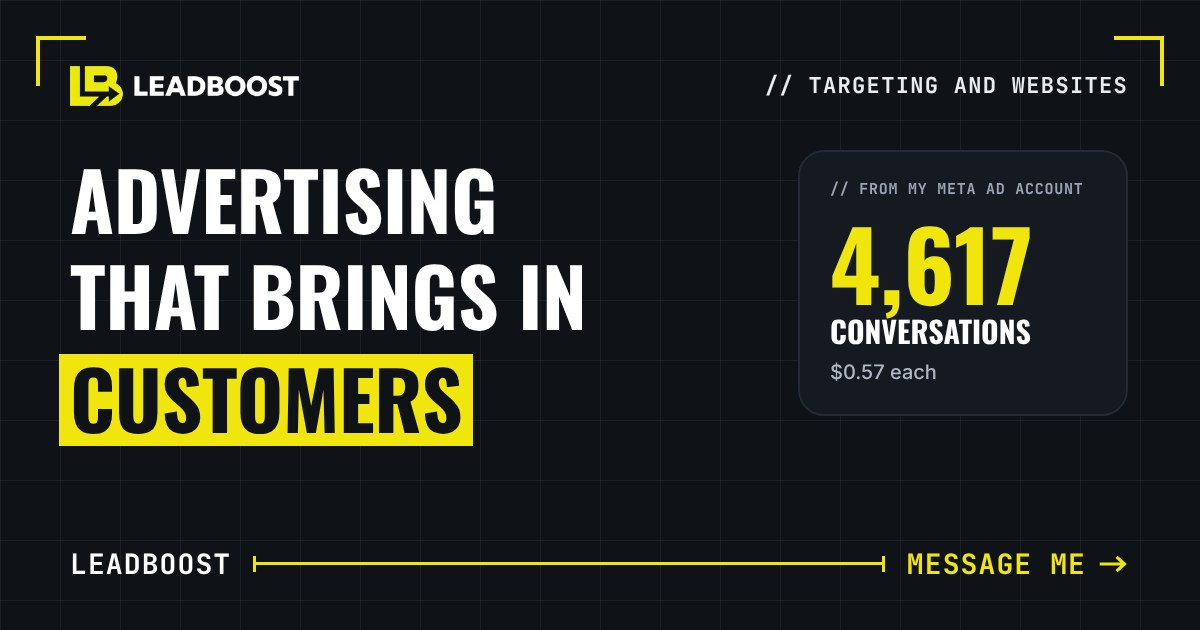
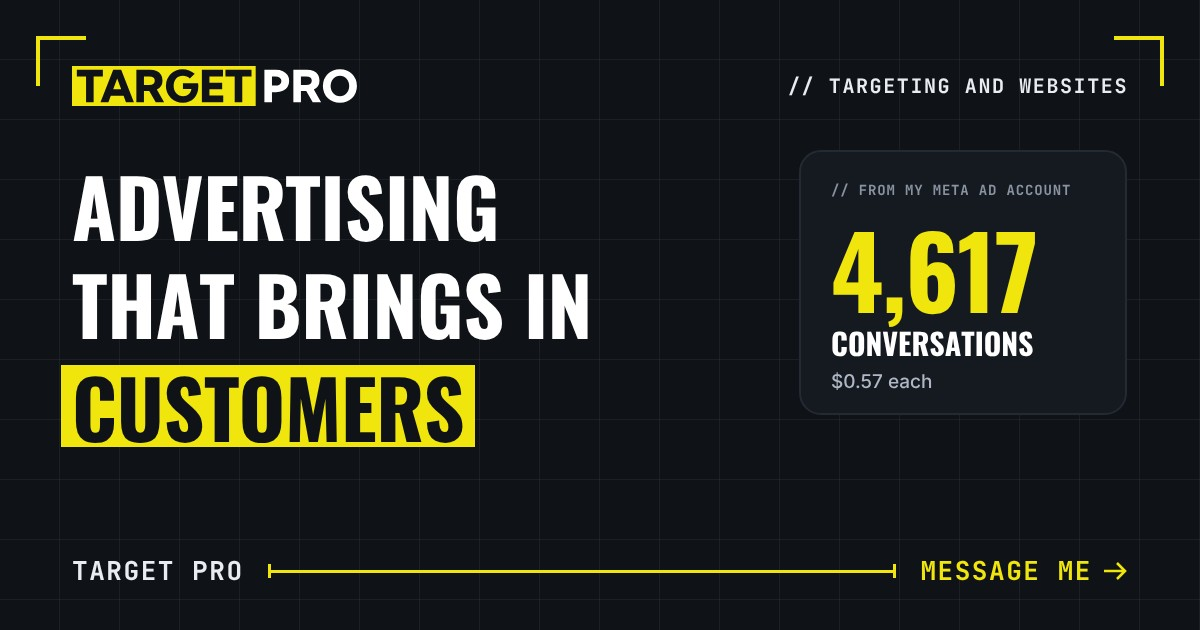
Ребрендинг: LeadBoost → TARGET PRO
Новый логотип (TARGET на жёлтой плашке, PRO белым) в шапке, favicon и
иконки приложения, картинки превью ссылок на трёх языках перерисованы.
Имя заменено в приветствии, подвале, копирайте, title/OG/JSON-LD,
manifest, 404 и в заявке в Telegram. Ники соцсетей пока прежние.

Claude-Session: https://claude.ai/code/session_01MH9BxGU3bTNh8A4amz6W13

diff --git a/src/i18n.jsx b/src/i18n.jsx
@@ -8,7 +8,7 @@
    HTML, поэтому поисковики индексируют все три. Переключатель
    меняет язык без перезагрузки и адрес в строке браузера.
 
-   Заголовки секций устроены как в каруселях LeadBoost: строка(и)
+   Заголовки секций устроены как в каруселях TARGET PRO: строка(и)
    `pre` обычным белым, последняя строка `mark` на жёлтой плашке.
    Русский: обращение на «ты», без длинных тире (—).
    ============================================================ */
@@ -64,9 +64,9 @@ export const UI = {
     nav: { services: "Услуги", niches: "С кем работаю", work: "Кейсы", results: "Цифры", pricing: "Тарифы", faq: "Вопросы", contact: "Контакт", menu: "Меню" },
     common: { whatsapp: "Написать в WhatsApp", telegram: "Написать в Telegram", instagram: "Instagram", toTop: "Наверх", language: "Язык" },
     hero: {
-      greetingMorning: "Доброе утро, это LeadBoost",
-      greetingDay: "Добрый день, это LeadBoost",
-      greetingEvening: "Добрый вечер, это LeadBoost",
+      greetingMorning: "Доброе утро, это TARGET PRO",
+      greetingDay: "Добрый день, это TARGET PRO",
+      greetingEvening: "Добрый вечер, это TARGET PRO",
       statusOnline: "На связи", statusOffline: "Отвечу утром",
       h1: ["Реклама,", "которая приводит"], h1Mark: "клиентов",
       lead: "Настраиваю таргетированную рекламу в Instagram и Facebook и делаю сайты, которые выдерживают этот трафик. Реклама, сайт и аналитика в одних руках с первого дня.",
@@ -154,7 +154,7 @@ export const UI = {
       pre: "Ясность,", mark: "которая продаёт",
       linksLabel: "Ссылки", contactsLabel: "Связь", statusLabel: "Статус",
       online: "на связи, отвечаю быстро", offline: "сейчас ночь, отвечу утром",
-      copyright: "© 2026 LeadBoost", services: "Реклама, сайты, аналитика", brandCta: "Написать",
+      copyright: "© 2026 TARGET PRO", services: "Реклама, сайты, аналитика", brandCta: "Написать",
     },
     mcta: { spots: (left, total) => `${left} из ${total} мест свободно`, cta: "WhatsApp" },
   },
@@ -163,9 +163,9 @@ export const UI = {
     nav: { services: "Қызметтер", niches: "Кіммен жұмыс істеймін", work: "Кейстер", results: "Цифрлар", pricing: "Тарифтер", faq: "Сұрақтар", contact: "Байланыс", menu: "Мәзір" },
     common: { whatsapp: "WhatsApp-қа жазу", telegram: "Telegram-ға жазу", instagram: "Instagram", toTop: "Жоғарыға", language: "Тіл" },
     hero: {
-      greetingMorning: "Қайырлы таң, бұл LeadBoost",
-      greetingDay: "Қайырлы күн, бұл LeadBoost",
-      greetingEvening: "Қайырлы кеш, бұл LeadBoost",
+      greetingMorning: "Қайырлы таң, бұл TARGET PRO",
+      greetingDay: "Қайырлы күн, бұл TARGET PRO",
+      greetingEvening: "Қайырлы кеш, бұл TARGET PRO",
       statusOnline: "Байланыстамын", statusOffline: "Таңертең жауап беремін",
       h1: ["Клиент", "әкелетін"], h1Mark: "жарнама",
       lead: "Instagram мен Facebook-та таргеттелген жарнаманы баптаймын және осы трафикті көтере алатын сайттар жасаймын. Жарнама, сайт және аналитика бірінші күннен бір қолда.",
@@ -253,7 +253,7 @@ export const UI = {
       pre: "Сататын", mark: "айқындық",
       linksLabel: "Сілтемелер", contactsLabel: "Байланыс", statusLabel: "Мәртебе",
       online: "байланыстамын, тез жауап беремін", offline: "қазір түн, таңертең жауап беремін",
-      copyright: "© 2026 LeadBoost", services: "Жарнама, сайттар, аналитика", brandCta: "Жазу",
+      copyright: "© 2026 TARGET PRO", services: "Жарнама, сайттар, аналитика", brandCta: "Жазу",
     },
     mcta: { spots: (left, total) => `${total} орынның ${left} бос`, cta: "WhatsApp" },
   },
@@ -262,9 +262,9 @@ export const UI = {
     nav: { services: "Services", niches: "Who I work with", work: "Cases", results: "Numbers", pricing: "Pricing", faq: "FAQ", contact: "Contact", menu: "Menu" },
     common: { whatsapp: "Message on WhatsApp", telegram: "Message on Telegram", instagram: "Instagram", toTop: "Back to top", language: "Language" },
     hero: {
-      greetingMorning: "Good morning, this is LeadBoost",
-      greetingDay: "Good afternoon, this is LeadBoost",
-      greetingEvening: "Good evening, this is LeadBoost",
+      greetingMorning: "Good morning, this is TARGET PRO",
+      greetingDay: "Good afternoon, this is TARGET PRO",
+      greetingEvening: "Good evening, this is TARGET PRO",
       statusOnline: "Online", statusOffline: "Will reply in the morning",
       h1: ["Advertising", "that brings in"], h1Mark: "customers",
       lead: "I set up targeted Instagram and Facebook ads and build websites that can handle that traffic. Ads, website and analytics in one pair of hands from day one.",
@@ -352,7 +352,7 @@ export const UI = {
       pre: "Clarity", mark: "that sells",
       linksLabel: "Links", contactsLabel: "Contact", statusLabel: "Status",
       online: "online, quick replies", offline: "night here, will reply in the morning",
-      copyright: "© 2026 LeadBoost", services: "Advertising, websites, analytics", brandCta: "Message me",
+      copyright: "© 2026 TARGET PRO", services: "Advertising, websites, analytics", brandCta: "Message me",
     },
     mcta: { spots: (left, total) => `${left} of ${total} slots open`, cta: "WhatsApp" },
   },

diff --git a/src/seo.js b/src/seo.js
@@ -16,27 +16,27 @@ export function langFromPath(pathname = "/") {
 
 export const SEO = {
   ru: {
-    title: "Таргетированная реклама в Казахстане и СНГ | LeadBoost",
+    title: "Таргетированная реклама в Казахстане и СНГ | TARGET PRO",
     description: "Таргетированная реклама в Instagram и Facebook для бизнеса в Казахстане и СНГ: заявки в WhatsApp, отчёт каждую неделю, запуск за 7 дней. От $170 в месяц.",
-    ogTitle: "LeadBoost: реклама, которая приводит клиентов",
+    ogTitle: "TARGET PRO: реклама, которая приводит клиентов",
     ogDescription: "Таргет в Instagram и Facebook и сайты под рекламу. Реальные скрины из рекламного кабинета, тарифы от $170 в месяц.",
-    ogImageAlt: "LeadBoost: реклама, которая приводит клиентов. 4 617 переписок по $0,57 из кабинета Meta",
+    ogImageAlt: "TARGET PRO: реклама, которая приводит клиентов. 4 617 переписок по $0,57 из кабинета Meta",
     serviceType: "Таргетированная реклама в Instagram и Facebook",
   },
   kk: {
-    title: "Қазақстан мен ТМД-дағы таргеттелген жарнама | LeadBoost",
+    title: "Қазақстан мен ТМД-дағы таргеттелген жарнама | TARGET PRO",
     description: "Қазақстан мен ТМД бизнесіне Instagram мен Facebook-тағы таргеттелген жарнама: WhatsApp-қа өтінімдер, апта сайын есеп, 7 күнде іске қосу. Айына $170-ден.",
-    ogTitle: "LeadBoost: клиент әкелетін жарнама",
+    ogTitle: "TARGET PRO: клиент әкелетін жарнама",
     ogDescription: "Instagram мен Facebook-тағы таргет және жарнамаға арналған сайттар. Жарнама кабинетінен нақты скриндер, тарифтер айына $170-ден.",
-    ogImageAlt: "LeadBoost: клиент әкелетін жарнама. Meta кабинетінен 4 617 хат алмасу, әрқайсысы $0,57",
+    ogImageAlt: "TARGET PRO: клиент әкелетін жарнама. Meta кабинетінен 4 617 хат алмасу, әрқайсысы $0,57",
     serviceType: "Instagram мен Facebook-тағы таргеттелген жарнама",
   },
   en: {
-    title: "Targeted ads for businesses in Kazakhstan and CIS | LeadBoost",
+    title: "Targeted ads for businesses in Kazakhstan and CIS | TARGET PRO",
     description: "Targeted Instagram and Facebook ads for businesses in Kazakhstan and the CIS: leads in WhatsApp, a weekly report, launch in 7 days. From $170 a month.",
-    ogTitle: "LeadBoost: advertising that brings in customers",
+    ogTitle: "TARGET PRO: advertising that brings in customers",
     ogDescription: "Instagram and Facebook ads plus websites built for ads. Real ad-account screenshots, plans from $170 a month.",
-    ogImageAlt: "LeadBoost: advertising that brings in customers. 4,617 conversations at $0.57 each from a Meta ad account",
+    ogImageAlt: "TARGET PRO: advertising that brings in customers. 4,617 conversations at $0.57 each from a Meta ad account",
     serviceType: "Targeted advertising on Instagram and Facebook",
   },
 };
@@ -53,7 +53,7 @@ export function structuredData({ site, lang, content, contacts }) {
       {
         "@type": "Organization",
         "@id": org,
-        name: "LeadBoost",
+        name: "TARGET PRO",
         url: `${site}/`,
         logo: `${site}/img/icons/icon-512.png`,
         image: `${site}/img/og/og-ru.jpg`,
@@ -70,7 +70,7 @@ export function structuredData({ site, lang, content, contacts }) {
         "@type": "WebSite",
         "@id": `${site}/#website`,
         url: `${site}/`,
-        name: "LeadBoost",
+        name: "TARGET PRO",
         inLanguage: ["ru", "kk", "en"],
         publisher: { "@id": org },
       },

diff --git a/src/App.jsx b/src/App.jsx
@@ -3,7 +3,7 @@
    Только композиция и разметка. Настройки в config.js,
    контент в data.jsx, тексты интерфейса в i18n.jsx,
    логика в interactions.jsx, мелкие компоненты в widgets.jsx.
-   Визуальный стиль как в каруселях LeadBoost (см. styles.css).
+   Визуальный стиль как в каруселях TARGET PRO (см. styles.css).
 
    Каждая секция — свой компонент со своим состоянием (открытый
    вопрос, калькулятор, форма). App хранит только язык, поэтому
@@ -33,7 +33,7 @@ const ext = { target: "_blank", rel: "noopener noreferrer" };
    а то, по чему человек кликнул, React оживляет в первую очередь. */
 const Part = ({ children }) => <Suspense fallback={null}>{children}</Suspense>;
 /* логотип отдельным файлом (раньше был base64 внутри JS и утяжелял страницу) */
-const LOGO_SRC = asset("img/logo.webp");
+const LOGO_SRC = asset("img/logo.svg");
 const NBSP = String.fromCharCode(160);
 
 /* Выбранный тариф: кнопка «Выбрать» в тарифах ставит, форма заявки показывает.
@@ -241,9 +241,9 @@ function Header({ t, lang, setLang }) {
   const closeMenu = () => setMenuOpen(false);
   return (
     <>
-      <nav className="nav" aria-label="LeadBoost">
+      <nav className="nav" aria-label="TARGET PRO">
         <a href="#top" className="nav-logo" onClick={(e) => { document.documentElement.style.overflow = ""; closeMenu(); scrollToTop(e); }}>
-          <img src={LOGO_SRC} alt="LeadBoost" width="114" height="20" />
+          <img src={LOGO_SRC} alt="TARGET PRO" width="121" height="17" />
         </a>
         <ul className="nav-links">
           <li><a href="#services" onClick={scrollToId("services")}>{t.nav.services}</a></li>
@@ -794,7 +794,7 @@ function Footer({ t }) {
           </div>
         </div>
         <a className="brand-line" href={CONTACTS.whatsapp} {...ext}>
-          <span className="bl-name">LEADBOOST</span>
+          <span className="bl-name">TARGET PRO</span>
           <span className="bl-rule" aria-hidden="true" />
           <span className="bl-cta">{t.footer.brandCta}<IconArrowRight className="bl-ic" /></span>
         </a>

diff --git a/index.html b/index.html
@@ -5,7 +5,7 @@
   <meta name="viewport" content="width=device-width, initial-scale=1.0" />
   <!-- seo:start: при сборке (scripts/build-site.mjs) этот блок заменяется на
        title, description, canonical, hreflang, Open Graph и JSON-LD для каждого языка -->
-  <title>Таргетированная реклама в Казахстане и СНГ | LeadBoost</title>
+  <title>Таргетированная реклама в Казахстане и СНГ | TARGET PRO</title>
   <meta name="description" content="Таргетированная реклама в Instagram и Facebook для бизнеса в Казахстане и СНГ: заявки в WhatsApp, отчёт каждую неделю, запуск за 7 дней. От $170 в месяц." />
   <!-- seo:end -->
   <meta name="theme-color" content="#0F1216" />
@@ -26,7 +26,7 @@
     var d = document.createElement("div");
     d.style.cssText = "position:fixed;inset:0;background:#0F1216;color:#E9EDF2;font-family:system-ui,sans-serif;padding:40px 24px;z-index:99999;overflow:auto";
     d.innerHTML = "<div style='max-width:640px;margin:0 auto'>"
-      + "<div style='font-size:13px;letter-spacing:.1em;color:#F0E60D;margin-bottom:14px'>LEADBOOST · ДИАГНОСТИКА</div>"
+      + "<div style='font-size:13px;letter-spacing:.1em;color:#F0E60D;margin-bottom:14px'>TARGET PRO · ДИАГНОСТИКА</div>"
       + "<h1 style='font-size:22px;margin:0 0 12px'>" + title + "</h1>"
       + "<pre style='white-space:pre-wrap;background:#151A21;border:1px solid #232A33;border-radius:10px;padding:14px;font-size:12.5px;color:#D3D9E2'>" + detail + "</pre>"
       + "<p style='font-size:14px;color:#AEB7C3;margin-top:16px'>Скопируйте текст выше и отправьте разработчику: по нему сразу видна причина.</p>"

diff --git a/src/styles.css b/src/styles.css
@@ -1,5 +1,5 @@
 /* ============================================================
-   LEADBOOST: стиль как в каруселях Instagram
+   TARGET PRO: стиль как в каруселях Instagram
    - фон #0F1216 с сеткой 60px (белый 5.5%)
    - жёлтый #F0E60D, тёмный текст на жёлтом #0F1216
    - заголовки Oswald Bold капсом, последняя строка на жёлтой
@@ -194,7 +194,7 @@ html, body { background: #0F1216; margin: 0; }
 /* логотип: точный размер и запрет сжатия. Без этого на узком экране
    Safari (iPhone) ужимал картинку до нуля, и логотип пропадал */
 .nav-logo { display: flex; align-items: center; flex-shrink: 0; }
-.nav-logo img { display: block; flex-shrink: 0; width: 114px; height: 20px; max-width: none; }
+.nav-logo img { display: block; flex-shrink: 0; width: 121px; height: 17px; max-width: none; }
 /* запасной вариант: если ссылкам не хватит места, они обрежутся,
    а не сдвинут логотип и язык (поля -6px оставляют место рамке фокуса) */
 .nav-links { display: flex; gap: 18px; list-style: none; margin: -6px; padding: 6px; min-width: 0; overflow: hidden; }
@@ -307,13 +307,13 @@ html, body { background: #0F1216; margin: 0; }
   }
   .nav-links { display: none; }
   .nav-logo { margin-right: auto; }
-  .nav-logo img { width: 108px; height: 19px; }
+  .nav-logo img { width: 114px; height: 16px; }
   .lang-btn { height: 40px; }
   .burger { display: block; }
 }
 @media (max-width: 330px) {
   .nav { padding-left: 13px; }
-  .nav-logo img { width: 97px; height: 17px; }
+  .nav-logo img { width: 100px; height: 14px; }
   .lang-btn { gap: 6px; padding: 0 9px 0 7px; }
 }
 

diff --git a/api/telegram.js b/api/telegram.js
@@ -24,7 +24,7 @@ export default async function handler(req, res) {
     return;
   }
 
-  const text = `🎯 Новая заявка с сайта LeadBoost\n\nИмя: ${name}\nКонтакт: ${contact}\nУслуга: ${service || "не указана"}\nНиша: ${niche || "не указана"}\nБюджет: ${budget || "не указан"}\nТариф: ${plan || "не выбран"}`;
+  const text = `🎯 Новая заявка с сайта TARGET PRO\n\nИмя: ${name}\nКонтакт: ${contact}\nУслуга: ${service || "не указана"}\nНиша: ${niche || "не указана"}\nБюджет: ${budget || "не указан"}\nТариф: ${plan || "не выбран"}`;
 
   try {
     const tgRes = await fetch(`https://api.telegram.org/bot${token}/sendMessage`, {
